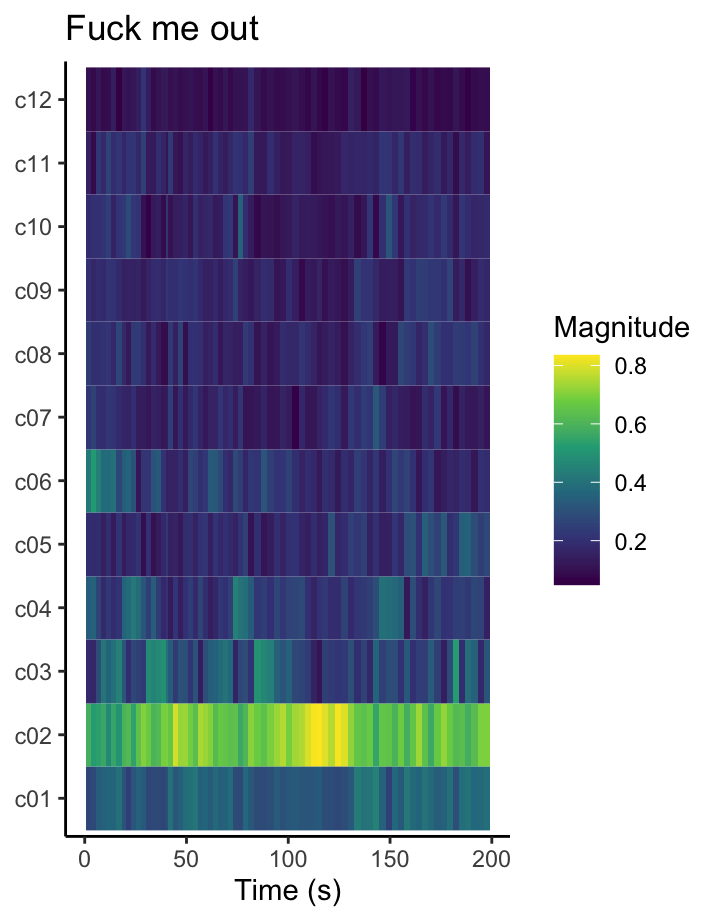
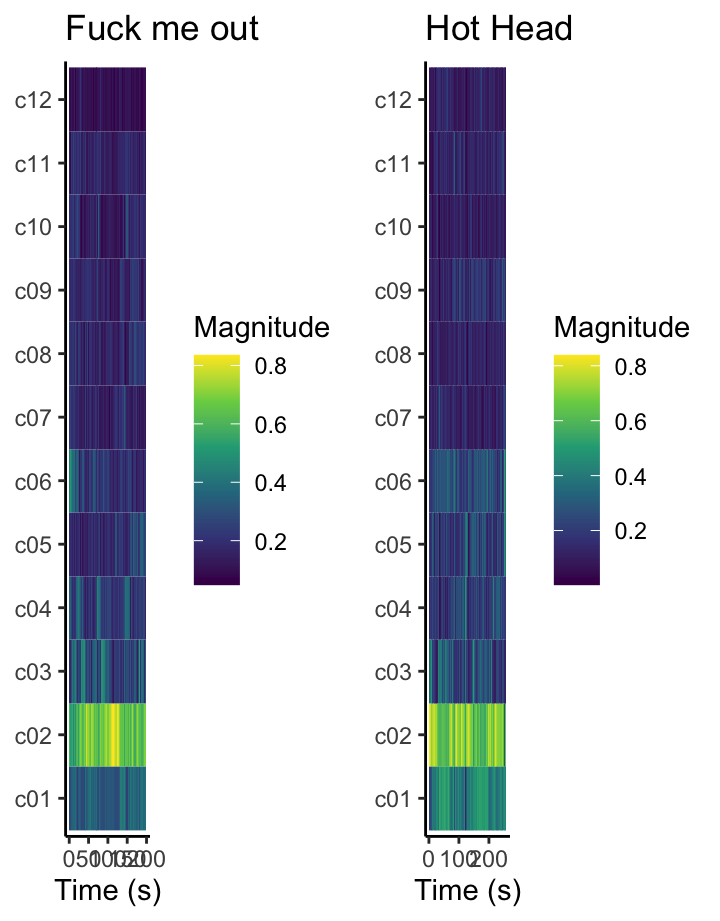
WHEE ehehehhehe i ama genijs

diff --git a/index.html b/index.html
@@ -782,8 +782,8 @@ html, body {
 <img class="mobile-figure" data-mobile-figure-id=fig1 src="index_files/figure-html/unnamed-chunk-1-1.mb.png" />
 <img class="mobile-figure" data-mobile-figure-id=fig2 src="index_files/figure-html/unnamed-chunk-2-1.mb.png" />
 <img class="mobile-figure" data-mobile-figure-id=fig3 src="index_files/figure-html/compus%20chromagram-1.mb.png" />
-<img class="mobile-figure" data-mobile-figure-id=fig4 src="index_files/figure-html/figures-side-2.mb.png" />
-<img class="mobile-figure" data-mobile-figure-id=fig6 src="index_files/figure-html/unnamed-chunk-3-1.mb.png" />
+<img class="mobile-figure" data-mobile-figure-id=fig4 src="index_files/figure-html/figures-side-1.mb.png" />
+<img class="mobile-figure" data-mobile-figure-id=fig5 src="index_files/figure-html/unnamed-chunk-3-1.mb.png" />
 <script type="text/javascript">
 
 
@@ -2658,7 +2658,7 @@ color:black!important;
 <div class="knitr-options" data-fig-width="576" data-fig-height="460">
 
 </div>
-<p><img src="index_files/figure-html/figures-side-1.png" width="50%" data-figure-id=fig4 /><img src="index_files/figure-html/figures-side-2.png" width="50%" data-figure-id=fig4 /></p>
+<p><img src="index_files/figure-html/figures-side-1.png" width="576" data-figure-id=fig4 style="display: block; margin: auto;" /></p>
 <hr />
 <iframe style="border-radius:12px" src="https://open.spotify.com/embed/track/3d2k4INhmRO6becJmIBCSS?utm_source=generator&amp;theme=0" width="100%" height="80" frameBorder="0" allowfullscreen allow="autoplay; clipboard-write; encrypted-media; fullscreen; picture-in-picture">
 </iframe>
@@ -2680,7 +2680,7 @@ color:black!important;
 <div class="knitr-options" data-fig-width="576" data-fig-height="460">
 
 </div>
-<p><img src="index_files/figure-html/unnamed-chunk-3-1.png" width="576" data-figure-id=fig6 /></p>
+<p><img src="index_files/figure-html/unnamed-chunk-3-1.png" width="576" data-figure-id=fig5 /></p>
 <hr />
 <iframe style="border-radius:12px" src="https://open.spotify.com/embed/track/3d2k4INhmRO6becJmIBCSS?utm_source=generator&amp;theme=0" width="100%" height="80" frameBorder="0" allowfullscreen allow="autoplay; clipboard-write; encrypted-media; fullscreen; picture-in-picture">
 </iframe>
